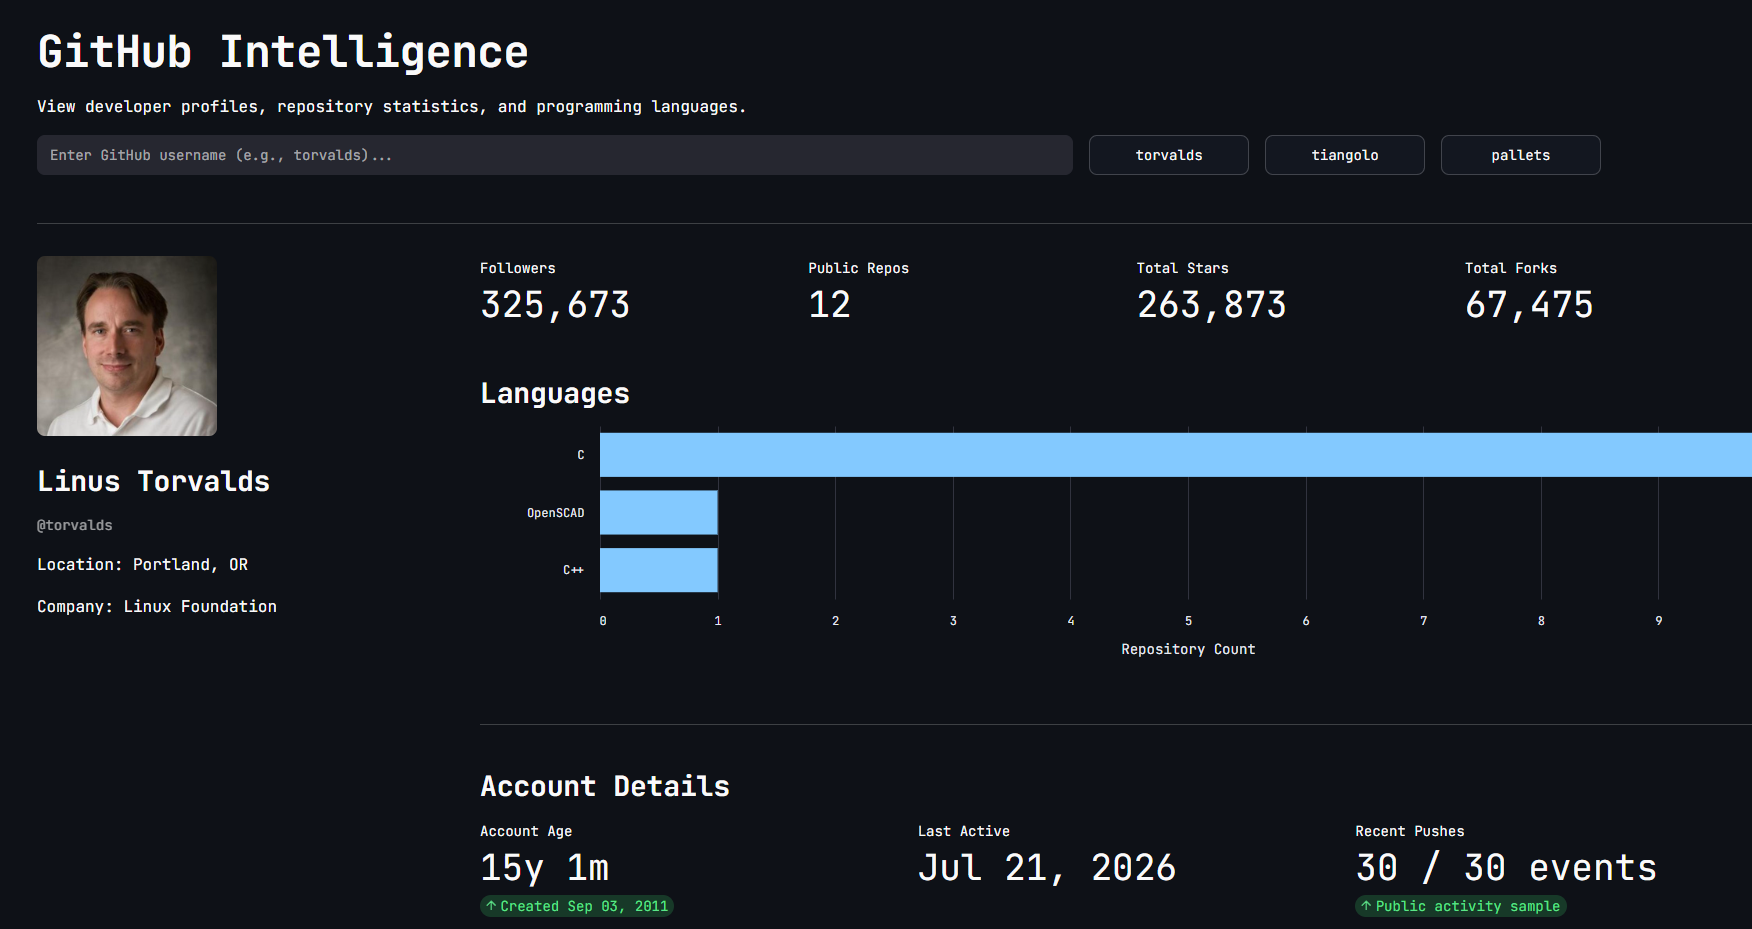
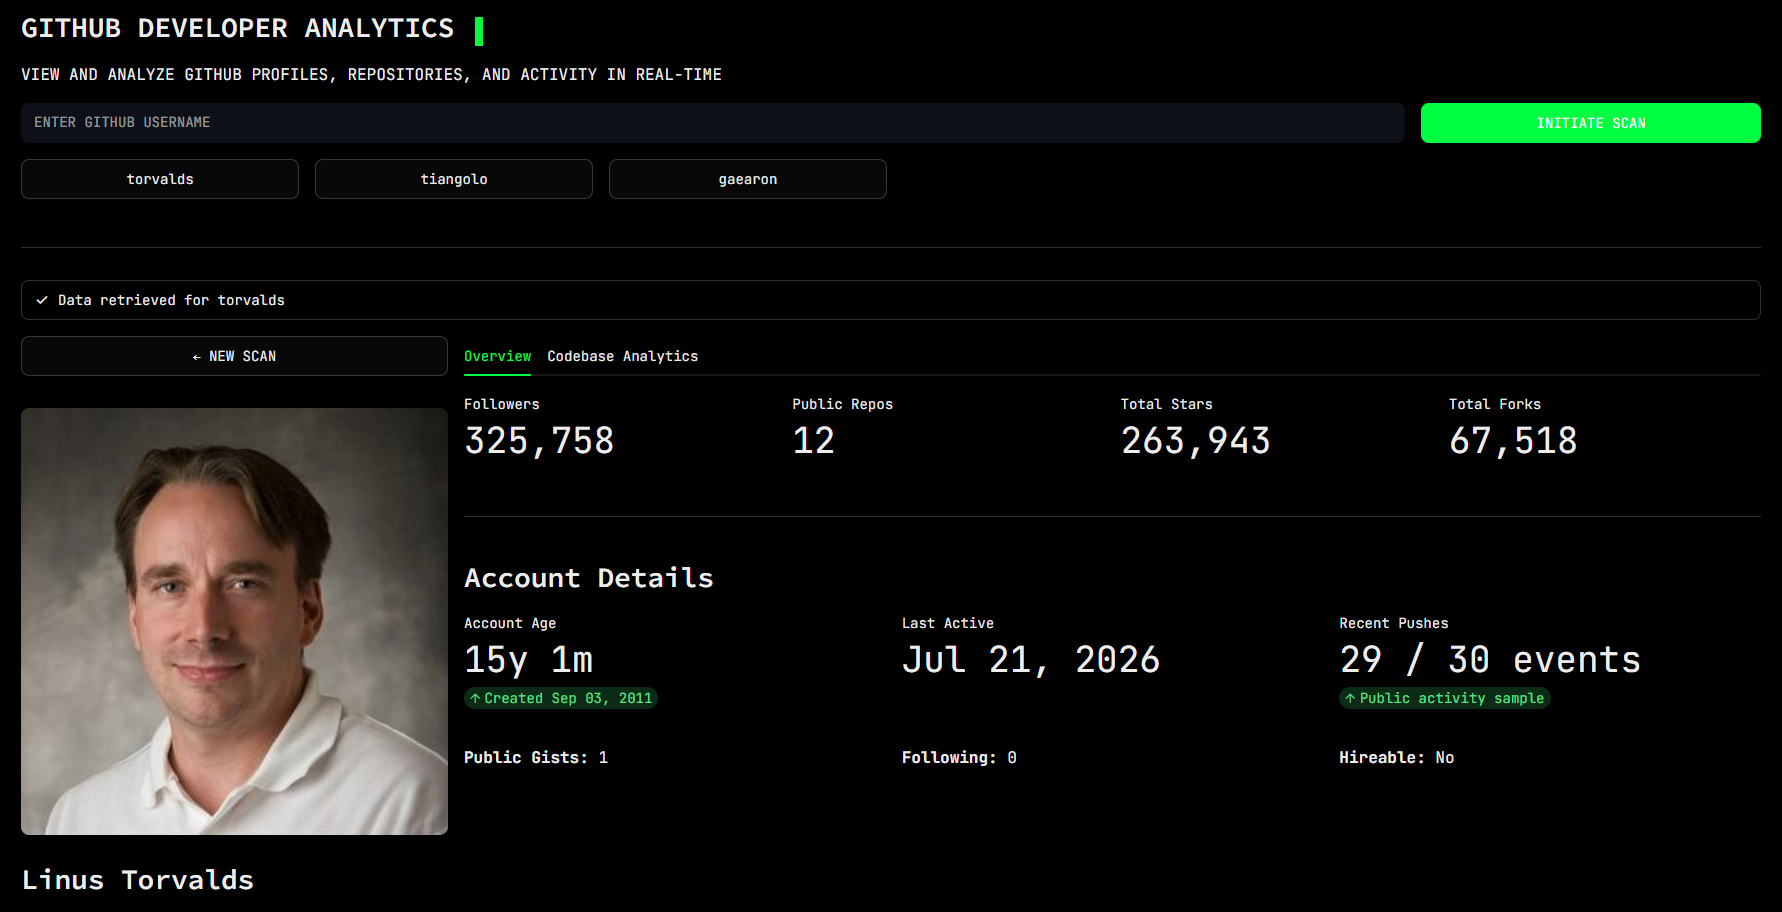
chore: finalize project documentation and UI presentation

diff --git a/assets/style.css b/assets/style.css
@@ -146,3 +146,8 @@ h3,
 h4 {
   letter-spacing: -0.5px;
 }
+
+/* 7. Hide Streamlit Header Anchor Links */
+.stMarkdown a > svg {
+  display: none !important;
+}

diff --git a/app.py b/app.py
@@ -1,4 +1,4 @@
-"""GitHub Intelligence Dashboard.
+"""GitHub Developer Analytics.
 
 A Streamlit application interfacing directly with the GitHub REST API to
 extract, aggregate, and visualize developer profiles, repository statistics,
@@ -20,7 +20,7 @@ from src.utils import calculate_account_age
 # ==============================================================================
 
 st.set_page_config(
-    page_title="GitHub Intelligence",
+    page_title="GitHub Developer Analytics",
     page_icon="assets/favicon.svg",
     layout="wide",
 )
@@ -48,7 +48,7 @@ load_css()
 st.markdown(
     """
     <a href="/" target="_self" style="text-decoration: none; color: inherit;">
-        <h3 style="margin: 0; display: inline-block;">GITHUB INTEL DASHBOARD <span class="terminal-cursor"></span></h3>
+        <h3 style="margin: 0; display: inline-block;">GITHUB DEVELOPER <span style="white-space: nowrap;">ANALYTICS <span class="terminal-cursor"></span></span></h3>
     </a>
     """,
     unsafe_allow_html=True,

diff --git a/README.md b/README.md
@@ -1,52 +1,70 @@
-# GitHub Intelligence Dashboard
+# GitHub Developer Analytics
 
-A fast, lightweight dashboard that gives you instant insights into any public GitHub profile. It shows developer activity, code languages used, and account stats.
+A fast, interactive dashboard to visualize GitHub profiles and repository data in real-time. Built with Python and Streamlit, featuring automated caching and a clean, responsive design.
 
 ## Preview
 
 ![App Preview](assets/app-preview.png)
 
-**🔗 [View Live Application](https://jatinp-inteldashboard.streamlit.app/)**
+**🔗 [View Live Application](https://jatinp-gh-analytics.streamlit.app/)**
 
 ## Core Features
 
-- **Profile Overview:** See the user's basic info, account age, and followers.
-- **Codebase Analysis:** Beautiful charts showing which programming languages they use most.
-- **Activity Metrics:** Keep track of recent updates and public events.
-- **Smart Data Fetching:** Directly talks to GitHub's API while being mindful of limits.
+- **Developer Profiles:** Instantly view user statistics, account age, and network size.
+- **Language Analytics:** Interactive charts visualizing the primary programming languages used across public repositories.
+- **Activity Tracking:** Monitor recent updates, repository counts, and commit history.
 
-## Architecture & Technical Decisions
+## Technical Overview
 
-This project was built with a focus on speed and reliability:
+The application interfaces directly with the GitHub REST API, utilizing in-memory caching and graceful error handling to manage rate limits efficiently. It is built on a modular architecture that separates data fetching, processing, and the user interface, and is backed by a continuous integration pipeline (GitHub Actions) for automated testing.
 
-- **Smart Caching:** The app uses `@st.cache_data` to save API results. This means if you search the same user twice, it loads instantly and doesn't waste API calls.
-- **Rate Limit Protection:** GitHub only allows 60 free requests per hour per IP. The dashboard catches errors (like `403 Rate Limit Exceeded`) gracefully and tells the user exactly what went wrong, rather than just crashing.
-- **Timezone Aware:** All dates fetched from GitHub are converted properly to UTC so they display correctly no matter where the user is.
+## UI & Design
 
-## UI & Design Decisions
-
-- **Terminal Aesthetic:** A custom `style.css` gives the app a clean, retro "Terminal" look.
-- **System Fonts:** To keep the app loading as fast as possible, it relies on fonts that are already installed on your computer (like `Consolas` or `Monaco`) instead of forcing you to download heavy web fonts.
+- **Clean, Focused Design:** A custom CSS theme provides a distraction-free, highly readable interface.
+- **Fast Loading:** The application relies on system-default fonts to minimize loading times and reduce external dependencies.
 
 ## Tech Stack
 
-- **Frontend & Logic:** Python + Streamlit
-- **Data Handling:** Pandas
-- **Charts:** Altair
-- **Network:** Requests (RESTful APIs)
+- **Language:** Python
+- **Framework:** Streamlit
+- **Data & Visualization:** Pandas, Altair
+- **Testing & CI:** Pytest, GitHub Actions
+- **Network:** Requests (GitHub REST API)
 
 ## Running it Locally
 
-1. Make sure you have Python installed.
-2. Clone this project.
-3. Turn on your virtual environment (`.venv`).
-4. Install the required tools:
+1. Ensure you have Python installed on your system.
+
+2. Clone the repository:
+
+   ```bash
+   git clone https://github.com/jatinpanigrahy/github-dev-analytics.git
+   cd github-dev-analytics
+   ```
+
+3. Activate your virtual environment (e.g., `.venv`):
+
+   ```bash
+   python -m venv .venv
+   # Windows (PowerShell):
+   .\.venv\Scripts\Activate.ps1
+   # macOS/Linux:
+   source .venv/bin/activate
+   ```
+
+4. Install the required dependencies:
 
    ```bash
    pip install -r requirements.txt
    ```
 
-5. Run the app:
+5. Run tests:
+
+   ```bash
+   pytest
+   ```
+
+6. Launch the application:
 
    ```bash
    streamlit run app.py
@@ -54,6 +72,6 @@ This project was built with a focus on speed and reliability:
 
 ## Deployment
 
-This application is deployed via Streamlit Community Cloud.
+This application is deployed and hosted via Streamlit Community Cloud.
 
-**Live Application:** <https://jatinp-inteldashboard.streamlit.app/>
+**Live Application:** <https://jatinp-gh-analytics.streamlit.app/>
